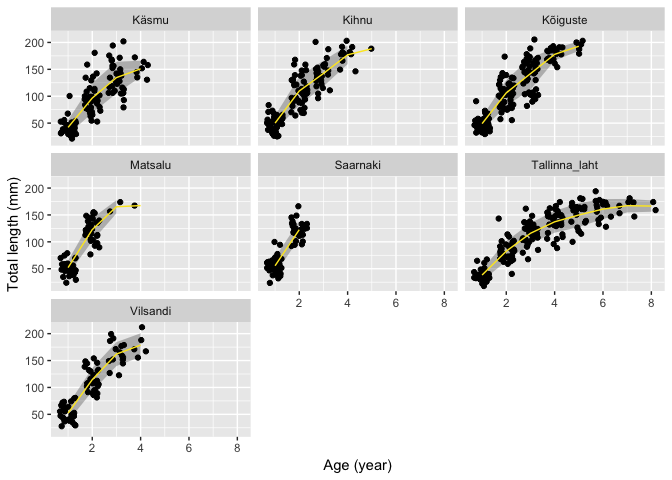
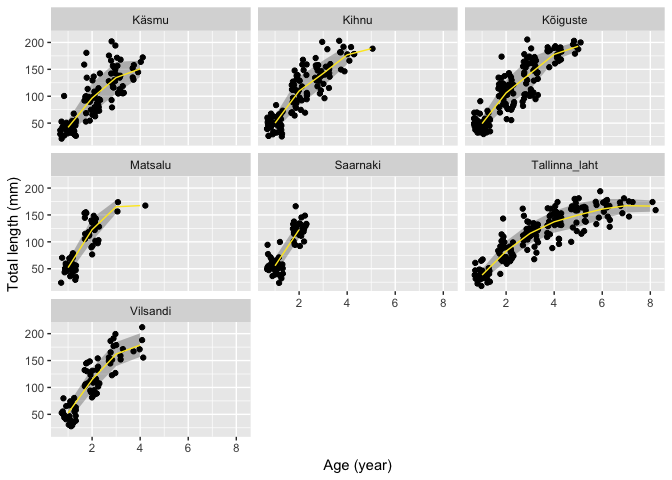
formatting

diff --git a/R/analyse_otol.md b/R/analyse_otol.md
@@ -3,7 +3,9 @@ Mudil growth curves
 rstats Tartu
 2018-10-30; (updated 2018-12-14)
 
-\#\# Setup Load libraries
+## Setup
+
+Load libraries
 
 ``` r
 library(tidyverse)
@@ -334,76 +336,73 @@ write_rds(fit2, here("output", "von_bertalanffy_normal_otol_2.rds"))
 summary(fit2)
 ```
 
-    ## Warning: There were 1 divergent transitions after warmup. Increasing adapt_delta above 0.8 may help.
-    ## See http://mc-stan.org/misc/warnings.html#divergent-transitions-after-warmup
-
     ##  Family: gaussian 
     ##   Links: mu = identity; sigma = log 
     ## Formula: tl ~ Linf * (1 - exp(-K * (age - t0))) 
-    ##          Linf ~ location + (1 | id)
-    ##          K ~ location + (1 | id)
-    ##          t0 ~ location + (1 | id)
+    ##          Linf ~ 0 + location + (1 | id)
+    ##          K ~ 0 + location + (1 | id)
+    ##          t0 ~ 0 + location + (1 | id)
     ##          sigma ~ age
     ##    Data: mudil_ad (Number of observations: 791) 
-    ## Samples: 4 chains, each with iter = 2000; warmup = 1000; thin = 1;
-    ##          total post-warmup samples = 4000
+    ## Samples: 1 chains, each with iter = 4000; warmup = 2000; thin = 1;
+    ##          total post-warmup samples = 2000
     ## 
     ## Group-Level Effects: 
     ## ~id (Number of levels: 259) 
     ##                    Estimate Est.Error l-95% CI u-95% CI Eff.Sample Rhat
-    ## sd(Linf_Intercept)    35.41      2.92    29.91    41.40       1415 1.00
-    ## sd(K_Intercept)        0.10      0.01     0.08     0.12       1074 1.00
-    ## sd(t0_Intercept)       0.08      0.02     0.03     0.11        370 1.01
+    ## sd(Linf_Intercept)    31.19      2.53    26.24    36.24       1039 1.00
+    ## sd(K_Intercept)        0.10      0.01     0.08     0.12        875 1.00
+    ## sd(t0_Intercept)       0.08      0.02     0.04     0.11        397 1.00
     ## 
     ## Population-Level Effects: 
     ##                            Estimate Est.Error l-95% CI u-95% CI Eff.Sample
-    ## sigma_Intercept                2.20      0.11     1.98     2.42        856
-    ## Linf_Intercept               182.57      6.64   169.12   195.00       2545
-    ## Linf_locationKihnu            64.43     11.44    43.42    87.64       2524
-    ## Linf_locationKõiguste         24.32     10.14     5.13    45.05       2594
-    ## Linf_locationMatsalu          25.00     17.54     1.19    65.33       1640
-    ## Linf_locationSaarnaki         60.33     24.68    12.92   107.24       2122
-    ## Linf_locationTallinna_laht    10.48      7.35     0.47    27.75       2320
-    ## Linf_locationVilsandi         66.07     14.58    37.24    94.94       4186
-    ## K_Intercept                    0.38      0.02     0.34     0.42       4019
-    ## K_locationKihnu                0.02      0.02     0.00     0.07       4942
-    ## K_locationKõiguste             0.10      0.04     0.02     0.18       2987
-    ## K_locationMatsalu              0.30      0.11     0.09     0.53       1797
-    ## K_locationSaarnaki             0.14      0.10     0.01     0.37       1629
-    ## K_locationTallinna_laht        0.03      0.02     0.00     0.07       4155
-    ## K_locationVilsandi             0.07      0.04     0.00     0.16       4925
-    ## t0_Intercept                   0.40      0.03     0.34     0.47       3098
-    ## t0_locationKihnu               0.02      0.04    -0.05     0.11       4089
-    ## t0_locationKõiguste            0.02      0.04    -0.06     0.11       3597
-    ## t0_locationMatsalu             0.15      0.05     0.05     0.24       3099
-    ## t0_locationSaarnaki            0.08      0.05    -0.01     0.17       3612
-    ## t0_locationTallinna_laht       0.04      0.04    -0.04     0.12       4260
-    ## t0_locationVilsandi            0.06      0.05    -0.03     0.15       4890
-    ## sigma_age                     -0.09      0.04    -0.16    -0.00       1064
+    ## sigma_Intercept                2.16      0.11     1.94     2.38        574
+    ## Linf_locationKäsmu           205.93     12.64   182.20   232.12       1682
+    ## Linf_locationKihnu           242.31     12.40   219.56   268.79       2541
+    ## Linf_locationKõiguste        203.32      8.15   188.30   219.61       1184
+    ## Linf_locationMatsalu         185.61     13.94   161.29   215.72       1203
+    ## Linf_locationSaarnaki        205.30     17.50   173.32   241.72       1560
+    ## Linf_locationTallinna_laht   187.36      6.63   174.74   200.40       1031
+    ## Linf_locationVilsandi        230.16     12.74   206.43   256.05       2516
+    ## K_locationKäsmu                0.45      0.05     0.37     0.56       1932
+    ## K_locationKihnu                0.39      0.04     0.32     0.47       2165
+    ## K_locationKõiguste             0.48      0.04     0.41     0.56       1716
+    ## K_locationMatsalu              0.78      0.12     0.58     1.04       1390
+    ## K_locationSaarnaki             0.66      0.11     0.48     0.91       1426
+    ## K_locationTallinna_laht        0.40      0.03     0.35     0.45       1650
+    ## K_locationVilsandi             0.48      0.05     0.39     0.58       2525
+    ## t0_locationKäsmu               0.50      0.03     0.43     0.57       2196
+    ## t0_locationKihnu               0.41      0.03     0.35     0.48       2343
+    ## t0_locationKõiguste            0.42      0.03     0.36     0.48       2316
+    ## t0_locationMatsalu             0.56      0.04     0.49     0.64       1599
+    ## t0_locationSaarnaki            0.51      0.04     0.43     0.59       1854
+    ## t0_locationTallinna_laht       0.43      0.04     0.36     0.50       3072
+    ## t0_locationVilsandi            0.47      0.04     0.39     0.54       2707
+    ## sigma_age                     -0.07      0.04    -0.15     0.01        653
     ##                            Rhat
     ## sigma_Intercept            1.00
-    ## Linf_Intercept             1.00
+    ## Linf_locationKäsmu         1.00
     ## Linf_locationKihnu         1.00
     ## Linf_locationKõiguste      1.00
     ## Linf_locationMatsalu       1.00
     ## Linf_locationSaarnaki      1.00
     ## Linf_locationTallinna_laht 1.00
     ## Linf_locationVilsandi      1.00
-    ## K_Intercept                1.00
+    ## K_locationKäsmu            1.00
     ## K_locationKihnu            1.00
     ## K_locationKõiguste         1.00
     ## K_locationMatsalu          1.00
     ## K_locationSaarnaki         1.00
     ## K_locationTallinna_laht    1.00
     ## K_locationVilsandi         1.00
-    ## t0_Intercept               1.00
+    ## t0_locationKäsmu           1.00
     ## t0_locationKihnu           1.00
     ## t0_locationKõiguste        1.00
     ## t0_locationMatsalu         1.00
     ## t0_locationSaarnaki        1.00
     ## t0_locationTallinna_laht   1.00
     ## t0_locationVilsandi        1.00
-    ## sigma_age                  1.00
+    ## sigma_age                  1.01
     ## 
     ## Samples were drawn using sampling(NUTS). For each parameter, Eff.Sample 
     ## is a crude measure of effective sample size, and Rhat is the potential 
@@ -526,9 +525,9 @@ waic(fit2, fit21)
 ```
 
     ##                 WAIC    SE
-    ## fit2         5763.95 47.80
+    ## fit2         5754.11 46.19
     ## fit21        5791.09 47.46
-    ## fit2 - fit21  -27.13 10.28
+    ## fit2 - fit21  -36.98 10.95
 
 Model with location-specific t0 (more parameters) seems to be better, so
 let’s go on with it. Introduction year
